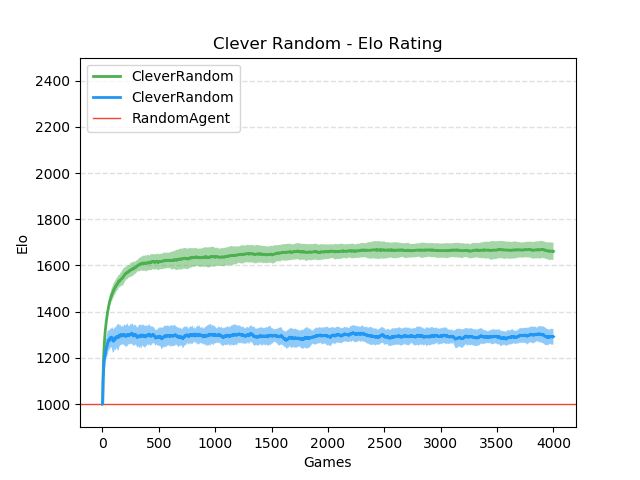
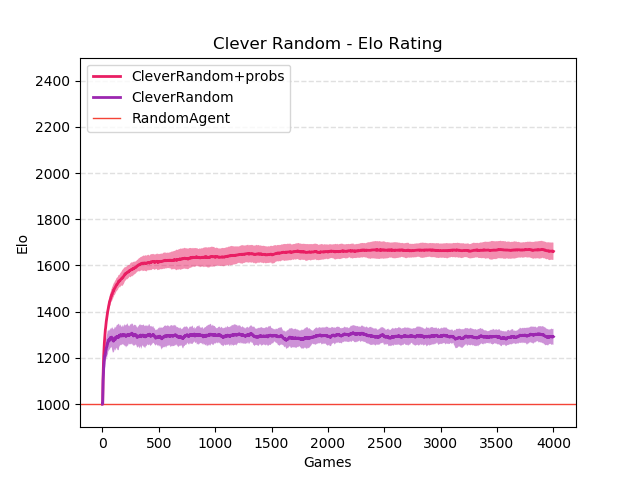
Fix

diff --git a/plotgenerators/cleverrandomelo.py b/plotgenerators/cleverrandomelo.py
@@ -1,15 +1,15 @@
 from plots import EloPlot, Data
 import numpy as np
 
+l = [('CleverRandomEloCalcProb', 'CleverRandom+probs', '#E91E63'), ('CleverRandomElo', 'CleverRandom', '#9C27B0')]
 
 with EloPlot(title=f'Clever Random - Elo Rating', saves=[f'GoodPlots/CleverRandom.png'], CR=False, CRP=False) as plt:
-    for EloOverTime, name, agent, color in Data([".\\outputs\\CleverRandomEloCalcProb\\csv", ".\\outputs\\CleverRandomElo\\csv"], colors=['#4CAF50', '#2196F3'], elo=False):
-        name = 'CleverRandom+probs' if name == 'CleverRandomEloCalcProb-4000' else 'CleverRandom'
-        theData = EloOverTime[0, 1000:, :]
+    for EloOverTime, name, agent, color in Data([f".\\outputs\\{a[0]}\\csv" for a in l], colors=[a[2] for a in l], elo=False):
+        name = [a[1] for a in l if a[0] == name][0]
 
+        theData = EloOverTime[0, 1000:, :]
         m = theData.mean()
         sd = theData.std() / np.sqrt(theData.size) * 1.96
-
         print(f'{name}: mean = {m:.6}    ,    95% = [{(m-sd):.6}, {(m+sd):.6}]      Calculated from {theData.shape[1]} samples.')
 
         plt.varPlot(plt, EloOverTime, name, color)
